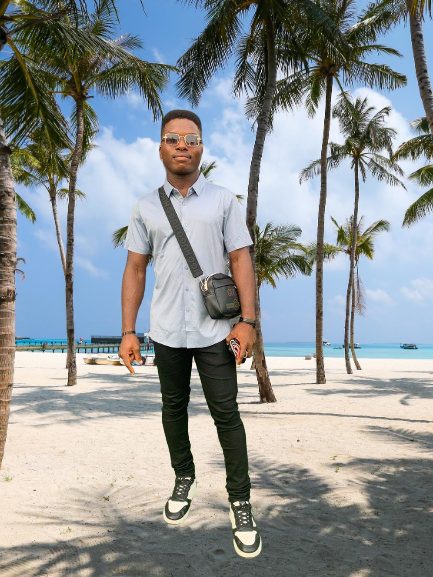
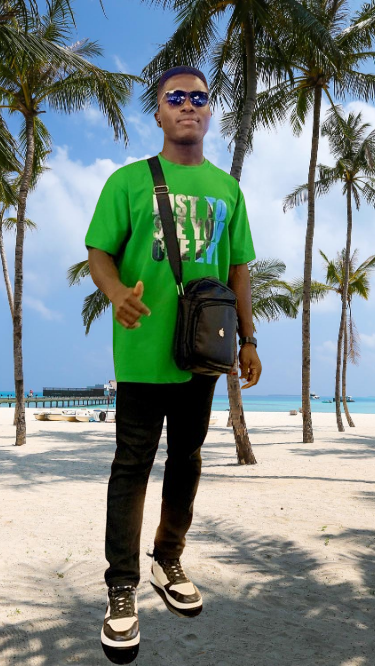
updated the profile image in the About section

diff --git a/components/About.tsx b/components/About.tsx
@@ -19,8 +19,7 @@ const About = () => {
 
   return (
     <section id="about" className="p-8 lg:py-10 bg-secondary">
-      <div className="max-w-3xl mt-8 lg:mt-2 mx-auto text-center">
-        <h2 className="text-3xl tracking-wider font-bold mb-4">About Me</h2>
+      <div className="max-w-3xl mt-8 lg:mt-2 mx-auto text-center"> 
         <div className="flex justify-center items-center my-4 p-2 w-full relative">
           <Image 
           src="/profile-img.png" 
@@ -30,8 +29,9 @@ const About = () => {
           className="profile_image relative rounded-full"
           />
         </div>
+        <h2 className="text-3xl tracking-wider font-bold mb-4">About Me</h2>
         <p className="text-base tracking-wide leading-relaxed mb-4">
-          Hi, I’m Sixtus, a passionate software engineer dedicated to crafting scalable and innovative web solutions. My journey in tech began with a fascination for how technology shapes our world. Over the years, I have navigated the complexities of full-stack development, embracing both front-end and back-end technologies to build robust applications.
+          Hi, I’m Sixtus Aondoakaa, a passionate Software Engineer dedicated to crafting scalable and innovative web solutions. My journey in tech began with a fascination for how technology shapes our world. Over the years, I have navigated the complexities of full-stack development, embracing both front-end and back-end technologies to build robust applications.
         </p>
         {isExpanded && (
           <>
